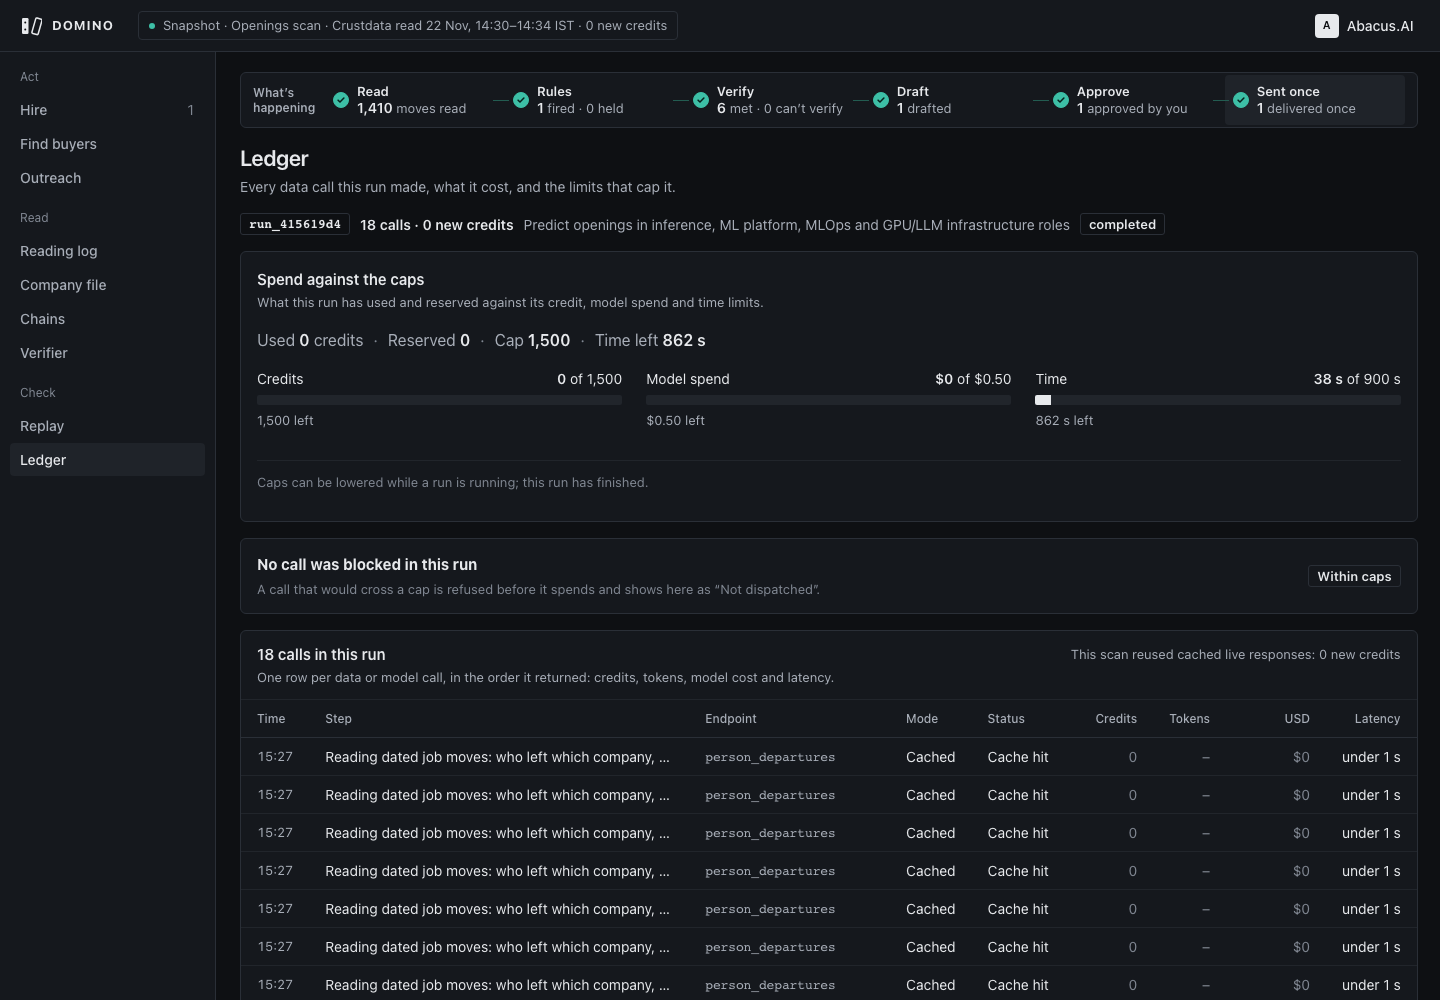
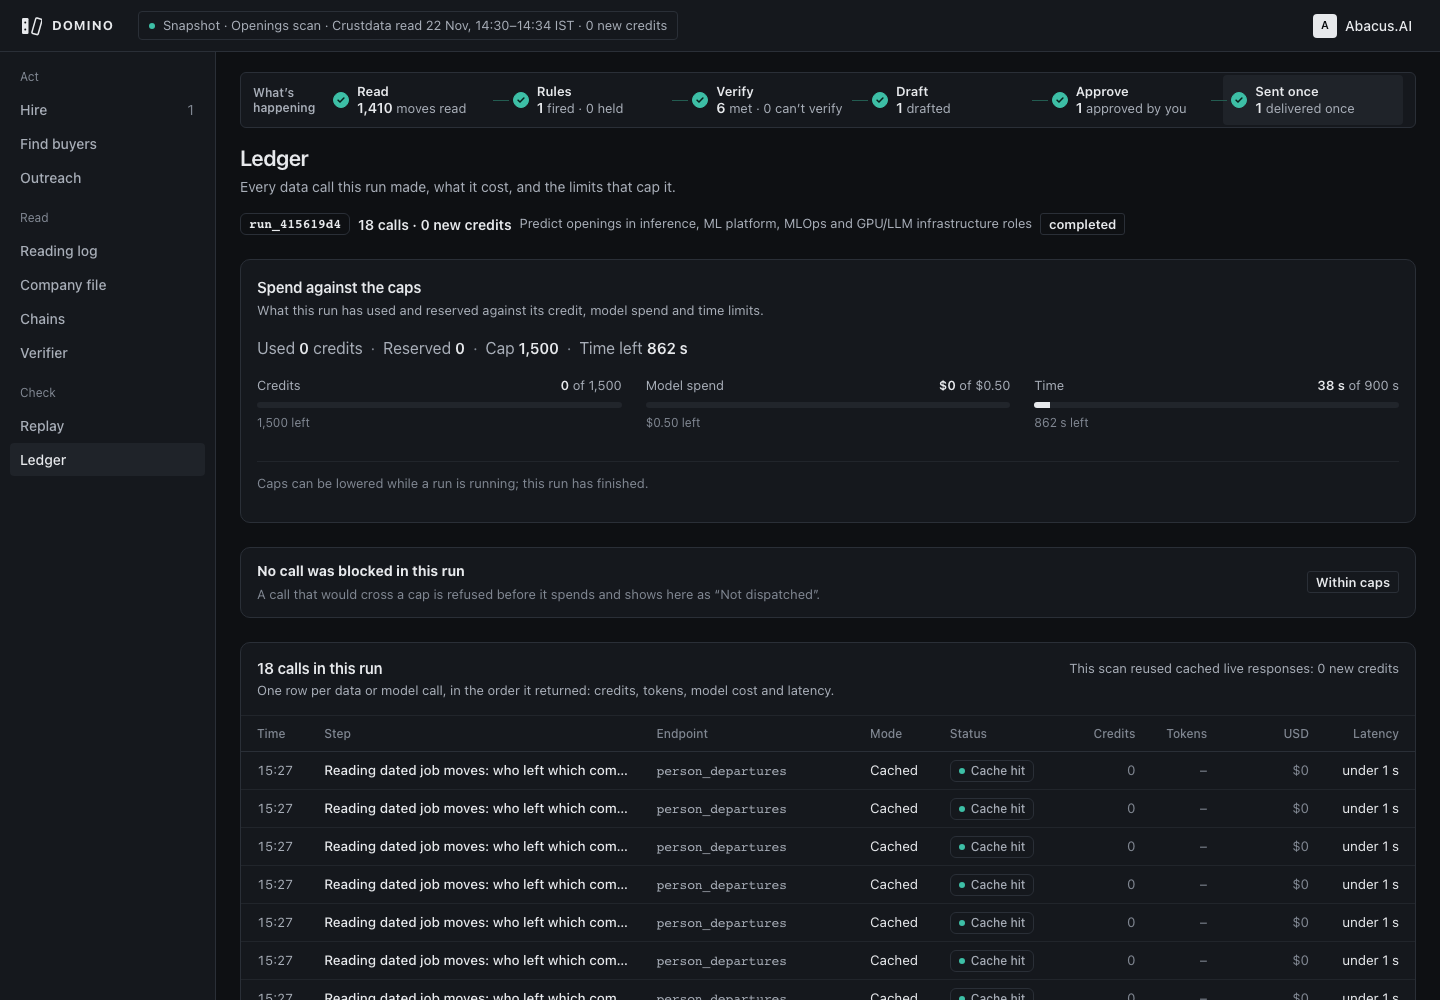
Replay + Ledger: Attio-style pass (hairline r10 cards, 36/38px grid rows, 12px muted headers, status pills with state dot, tight display lead)

diff --git a/web2/src/features/ledger/ledger.css b/web2/src/features/ledger/ledger.css
@@ -58,3 +58,33 @@
 .ledger .panel > header { align-items: flex-start; }
 .lg-note { white-space: nowrap; padding-top: 2px; }
 .lg-table tbody td:not(.lg-step) { white-space: nowrap; }
+
+/* Attio pass (17:05 note): flat hairline cards r10, compact 38px grid rows, 12px muted headers, pill status with state dot, 8px-step spacing */
+.ledger { gap: 24px; max-width: 1200px; }
+.ledger .panel, .ledger .blocked { border-radius: 10px; border-color: var(--rule); box-shadow: none; }
+.ledger .panel > header { padding: 14px 16px; }
+.lg-sec-h h2 { font-size: 15px; font-weight: 600; letter-spacing: -.01em; }
+.lg-table thead th { height: 36px; padding: 0 16px; font-size: 12px; font-weight: 500; letter-spacing: 0; color: var(--ink-3); background: var(--surface); }
+.lg-table tbody tr { height: 38px; }
+.lg-table tbody td { padding: 0 16px; font-size: 13.5px; height: 38px; }
+.lg-table tbody tr:hover td { background: var(--row-hover); }
+.lg-table td.lg-step { color: var(--ink); font-weight: 500; }
+.lg-pill { display: inline-flex; align-items: center; gap: 6px; height: 22px; padding: 0 8px; border: 1px solid var(--rule); border-radius: 6px; font-size: 12px; font-weight: 500; color: var(--ink-2); background: var(--surface); }
+.lg-pill i { width: 6px; height: 6px; border-radius: 50%; background: var(--ink-3); }
+.lg-pill.ok i { background: var(--acc); }
+.lg-pill.bad { color: var(--err); border-color: color-mix(in srgb, var(--err) 35%, var(--rule)); }
+.lg-pill.bad i { background: var(--err); }
+.lg-run { gap: 8px; font-size: 13px; }
+.lg-run .st.mono { border-radius: 6px; }
+.lg-line { font-size: 15px; gap: 8px; }
+.lg-line b { font-size: 15px; }
+.lg-cap-h { font-size: 13px; color: var(--ink-2); }
+.lg-cap-h b { color: var(--ink); }
+.capbar { height: 6px; border-radius: 3px; }
+.lg-cap-n { font-size: 12px; color: var(--ink-3); }
+.lg-strip { padding: 16px; gap: 16px; }
+.lg-lower { padding-top: 12px; }
+.blocked { padding: 12px 16px; font-size: 14px; }
+.lg-lower input, .ledger .btn { border-radius: 8px; }
+.ledger { max-width: none; grid-template-columns: minmax(0, 1fr); }
+.lg-table thead th, .lg-table tbody td, .lg-table tfoot td { padding-left: 12px; padding-right: 12px; } .lg-table th:first-child, .lg-table td:first-child { padding-left: 16px; } .lg-table th:last-child, .lg-table td:last-child { padding-right: 16px; } .lg-table td.lg-step { max-width: 300px; }

diff --git a/web2/src/features/replay/replay.css b/web2/src/features/replay/replay.css
@@ -51,3 +51,25 @@
 .rp-cohort li.rp-cohort-h { position: sticky; top: 0; background: var(--surface); font-size: 12px; font-weight: 500; color: var(--ink-2); padding-top: 8px; padding-bottom: 8px; }
 .rp-cohort li { padding: 8px 12px; align-items: center; }
 .rp-date { font-variant-numeric: tabular-nums; }
+
+/* Attio pass (17:05 note): hairline r10 cards, compact grid, display lead with tight tracking, 8px controls */
+.replay { gap: 24px; max-width: 1200px; }
+.replay .panel { border-radius: 10px; border-color: var(--rule); box-shadow: none; }
+.replay .panel > header { padding: 14px 16px; }
+.replay .panel > header h2 { font-size: 15px; font-weight: 600; letter-spacing: -.01em; }
+.replay .btn { border-radius: 8px; }
+.rp-play > .btn { height: 34px; }
+.rp-lead { font-size: 22px; font-weight: 600; letter-spacing: -.02em; margin: 0 0 16px; }
+.rp-table { border: 1px solid var(--rule); border-radius: 8px; border-collapse: separate; border-spacing: 0; overflow: hidden; }
+.rp-table th { height: 36px; padding: 0 16px; font-size: 12px; font-weight: 500; color: var(--ink-3); background: var(--surface); }
+.rp-table td { height: 38px; padding: 0 16px; font-size: 14px; }
+.rp-table tbody tr:hover td { background: var(--row-hover); }
+.rp-empty .rp-table { border-color: var(--rule); border-radius: 8px; }
+.rp-cohort { border-color: var(--rule); border-radius: 8px; }
+.rp-cohort li { min-height: 36px; padding: 0 12px; }
+.rp-cohort li.rp-cohort-h { color: var(--ink-3); min-height: 34px; }
+.rp-cohort li:not(.rp-cohort-h):hover { background: var(--row-hover); }
+.rp-src { padding: 8px 16px; font-size: 12px; color: var(--ink-3); }
+.rp-sub { font-size: 14px; letter-spacing: -.01em; }
+.rp-drawer { padding: 16px; font-size: 13.5px; }
+.rp-drawer dt { font-weight: 500; color: var(--ink-3); }

diff --git a/web2/src/features/ledger/Ledger.tsx b/web2/src/features/ledger/Ledger.tsx
@@ -166,7 +166,7 @@ function Row({ r }: { r: LedgerEntry }) {
       <td className="lg-step" title={stepName(r)}>{stepName(r)}</td>
       <td className="mono" title={ENDPOINT_NOUN[r.endpoint] ?? r.endpoint}>{r.endpoint}</td>
       <td>{r.injected ? <span className="st held">Injected fault</span> : modeLabel(r)}</td>
-      <td className={bad ? 'lg-bad' : undefined}>{STATUS[r.status]}{r.attempt > 1 ? ` · try ${r.attempt}` : ''}</td>
+      <td><span className={`lg-pill ${r.status === 'budget_blocked' ? 'idle' : bad ? 'bad' : 'ok'}`}><i aria-hidden="true" />{STATUS[r.status]}{r.attempt > 1 ? ` · try ${r.attempt}` : ''}</span></td>
       <td className="num">{r.credits ? fmtCredits(r.credits) : <span className="faint">0</span>}</td>
       <td className="num">{isLlm(r) ? fmtInt(r.inputTokens + r.outputTokens) : <span className="faint">–</span>}</td>
       <td className="num">{r.usd ? fmtUsd(r.usd) : <span className="faint">$0</span>}</td>
